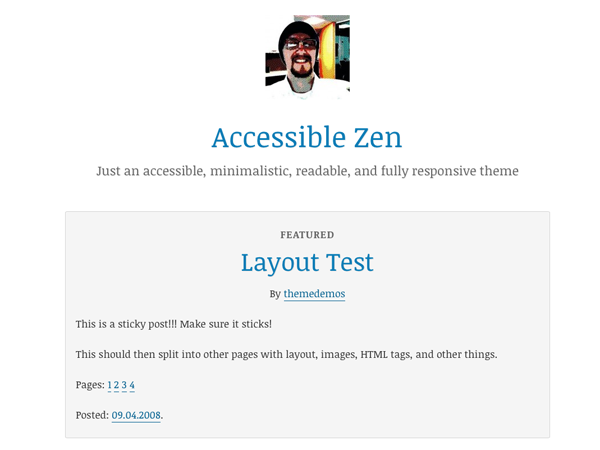
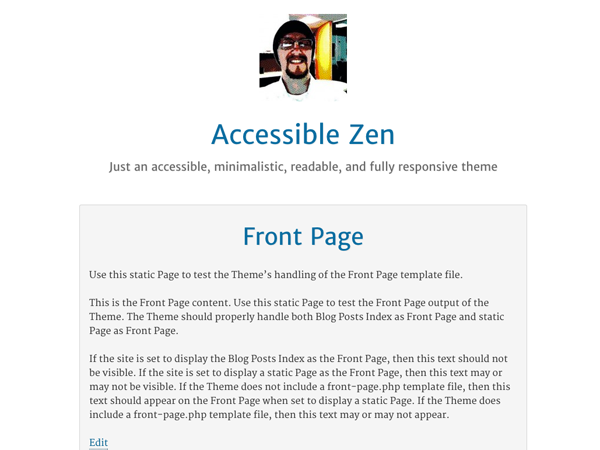
Update readme and screenshot for next alpha release.

diff --git a/readme.md b/readme.md
@@ -2,7 +2,7 @@
 
 Accessible Zen is an accessible, minimalistic, readable, and fully responsive WordPress theme by [David A. Kennedy](http://davidakennedy.com). Inspired by Leo Babauta's [Zen Habits theme](http://zenhabits.net/theme/), Accessible Zen puts the focus on your content and nothing else, plus it has plenty of WordPress goodness built right in.
 
-**Current Release on Github**: 0.1-alpha-2
+**Current Release on Github**: 0.1-alpha-3
 
 **Current Release on WordPress.org Theme Directory**: N/A (Not submitted yet)
 
@@ -14,21 +14,21 @@ Accessible Zen is an accessible, minimalistic, readable, and fully responsive Wo
 
 Once the theme hits a stable release, I'll submit it to the [WordPress theme repository](http://wordpress.org/themes/).
 
-I'd love to hear what you think! You can submit feedback on the [Github issues section](https://github.com/davidakennedy/Accessible-Zen/issues), or by emailing me at me (at) davidakennedy dot com.
+I'd love to hear what you think! You can submit feedback on the [Github issues section](https://github.com/davidakennedy/accessible-zen/issues), or by emailing me at me (at) davidakennedy dot com.
 
 ## Features
 
 - Uses HTML5 with dashes of CSS3 for a future-friendly site.
 - Has a mobile-first responsive design.
-- Meets both [Section 508 standards](http://www.section508.gov/index.cfm?&FuseAction=Content&ID=12) and [Web Content Accessibility Guidelines, Level AA](http://www.w3.org/TR/WCAG/) from the theme template perspective. This includes a [carefully-choosen color scheme](http://accessibility.oit.ncsu.edu/tools/color-contrast/accessible-color-palette.php?colors=ffffff,f5f5f5,d5d5d5,e5e5e5,333333,666666,f6fcff,e5f7ff,00354C,00628C,008FCC,007DB2&level=AA).
+- Meets both [Section 508 standards](http://www.section508.gov/index.cfm?&FuseAction=Content&ID=12) and [Web Content Accessibility Guidelines, Level AA](http://www.w3.org/TR/WCAG/) from the theme template perspective. This includes a [carefully-choosen color scheme](http://accessibility.oit.ncsu.edu/tools/color-contrast/accessible-color-palette.php?&colors=ffffff,f5f5f5,d5d5d5,e5e5e5,333333,666666,e5f7ff,00628c,00354C,00628,C,008FCC,006e9d&main=ffffff&level=AA).
 - Code based on Automattic's [Underscores WordPress theme](http://underscores.me/) to help ensure use of WordPress theme standards.
 - Supports all modern browsers, plus Internet Explorer 7 and above.
 - Has a simple one-column layout, and no main menu in the `header` section of the site so users can get to your content quickly.
-- Features the lovely [Noticia Text web font](http://www.google.com/fonts/specimen/Noticia+Text).
+- Features the lovely [Merriweather Sans](http://www.google.com/fonts/specimen/Merriweather+Sans) and [Merriweather](hhttp://www.google.com/fonts/specimen/Merriweather).
 - By default, Accessible Zen will display the site owner’s [Gravatar](http://en.gravatar.com/) in the header. You can replace this by uploading a Custom Header Image in Appearance -> Header, or you can remove it completely by selecting Remove Header Image.
 - Features all nine [post formats](http://codex.wordpress.org/Post_Formats).
 - Shows menus only when you need them. Accessible Zen doesn’t display a menu as a default to keep it as simple as possible. Of course, if your site needs a menu you can easily set up a Custom Menu in Appearance -> Menus. The theme features two menus, which display in the `footer' section of the site.
-- Tight integration with the [WordPress Theme Customizer](https://codex.wordpress.org/Theme_Customization_API), allowing site owners to edit the theme's appearance on the fly. They can show/hide the site description and display excerpts or full content on archive pages.
+- Tight integration with the [WordPress Theme Customizer](https://codex.wordpress.org/Theme_Customization_API), allowing site owners to edit the theme's appearance on the fly. They can show/hide the site description, display excerpts or full content on archive pages and more.
 - Includes two page templates: an archives template, which features an archive of posts in different ways; a front page template, which allows site owners to feature content with unique styling. Plus, the page shows only one post by default, allowing users to focus on your latest and greatest content.
 - Incorporates the font icon, [Genericons](http://genericons.com/) in a few spots throughout the theme.
 - Treats the [WordPress except](http://codex.wordpress.org/Excerpt) and [Read More tag](http://codex.wordpress.org/Customizing_the_Read_More) with care, and displays the post title so excerpts output like this: `Continue reading Post Title`
@@ -56,6 +56,18 @@ Why, hello there! This is an open source project, and you can help out in many w
 - Use the theme, and give me ideas for future enhancements. You can submit feedback on the [Github issues section](https://github.com/davidakennedy/Accessible-Zen/issues), or by emailing me at me (at) davidakennedy dot com.
 
 ### Changelog
+
+**July 29, 2013**
+
+Release: Version 0.1-alpha-3
+
+- Various design tweaks including a lighter footer area and new fonts.
+- Add better support for [taxonomy descriptions on archive pages](https://github.com/davidakennedy/accessible-zen/issues/25).
+- Add [category and tag templates](https://github.com/davidakennedy/accessible-zen/issues/24).
+- Add [custom taxonomy support for archive page titles](https://github.com/davidakennedy/accessible-zen/issues/23).
+- Add [post type support for archive page titles](https://github.com/davidakennedy/accessible-zen/issues/22).
+- Add ["show more posts option"](https://github.com/davidakennedy/accessible-zen/issues/21) on Front Page Template.
+- Make [functions more pluggable](https://github.com/davidakennedy/accessible-zen/issues/20) and easier for child theme support.
 
 **July 11, 2013**
 
